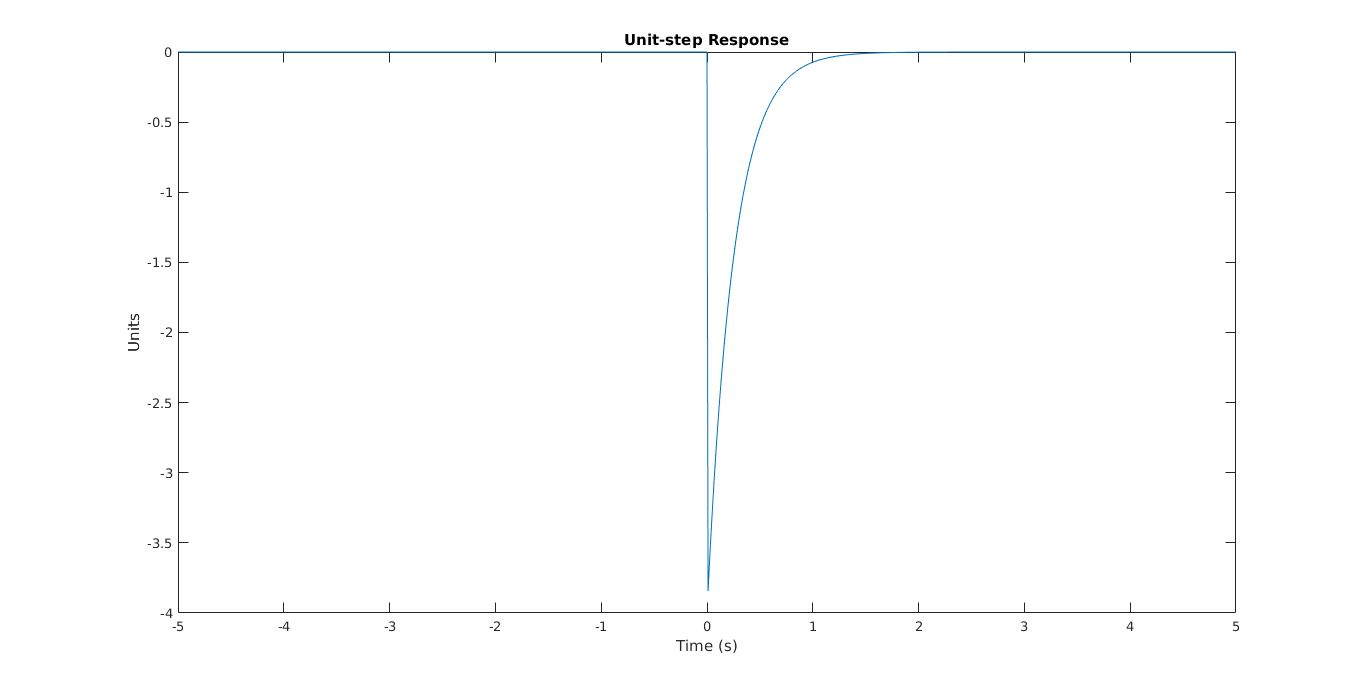
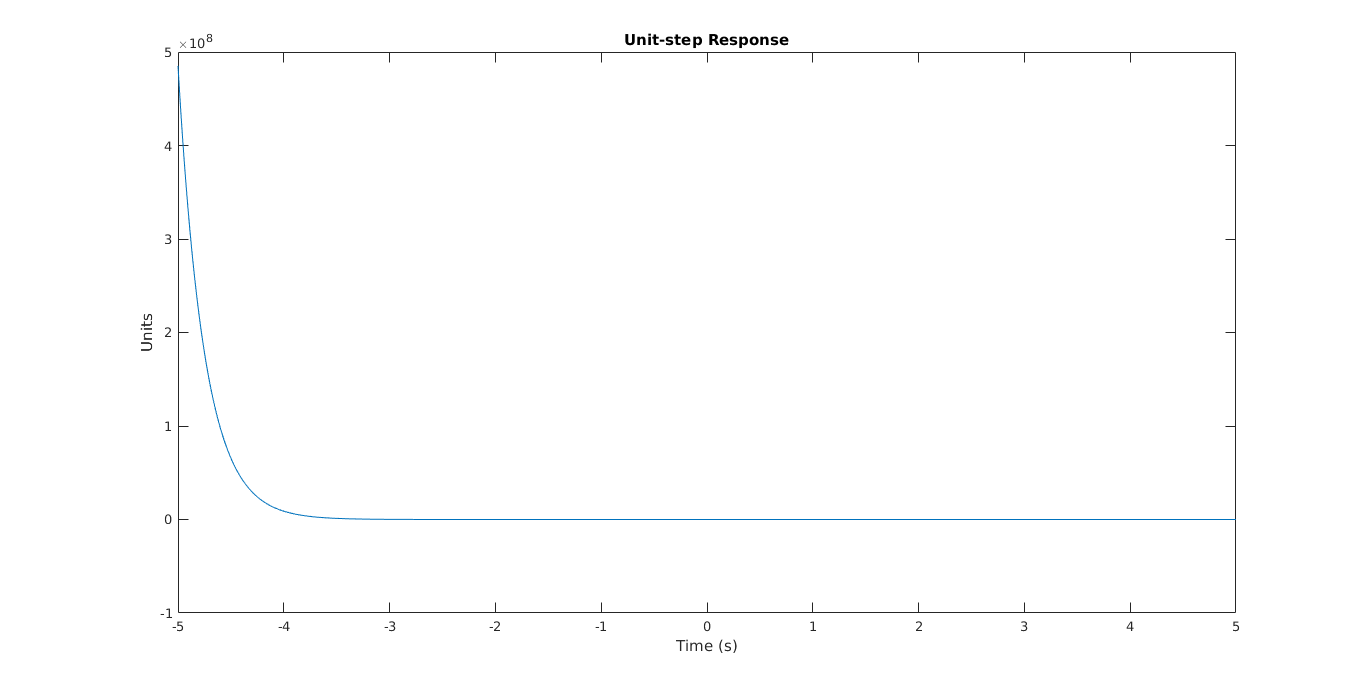
ughughughughuh

diff --git a/midterms/midterm1/prob4.m b/midterms/midterm1/prob4.m
@@ -1,6 +1,6 @@
 dt = 0.01;
 t = -5:dt:5;
-t2 = -10:dt:10;
+t2 = 0:dt:20;
 r1 = 1000;
 r2 = 1000;
 c = 250e-6;
@@ -16,13 +16,13 @@ d = @(t) (~t);
 p = @(t, T) (u(t) - u(t-T));
 b3 = @(t) (p(t, 1) + p(t-1, 1) - p(t-2, 1));
 
-y = @(t) (-4*exp(-4*t));
+y = @(t) (-1*(1-exp(-4*t)));
 
-h1 = @(t) (u(t).*y(t));
-h2 = @(t) (d(t).*y(t));
+h1 = @(t) (1-exp(-4*t));
+h2 = @(t) (4*exp(-4*t));
 
 figure;
-plot(t, h1(t))
+plot(t, y(t))
 title('Unit-step Response');
 ylabel('Units');
 xlabel('Time (s)');
